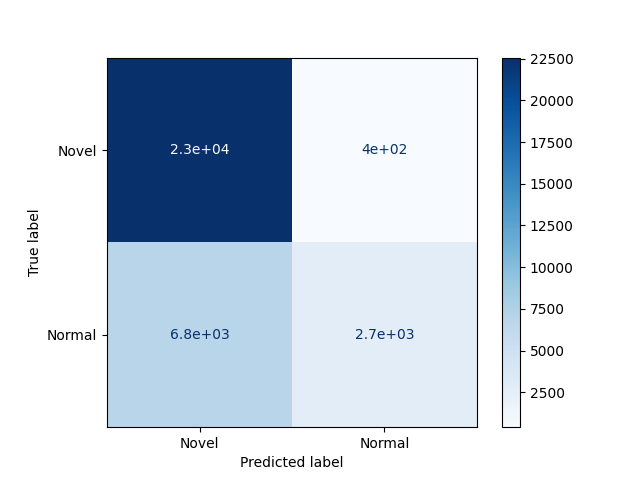
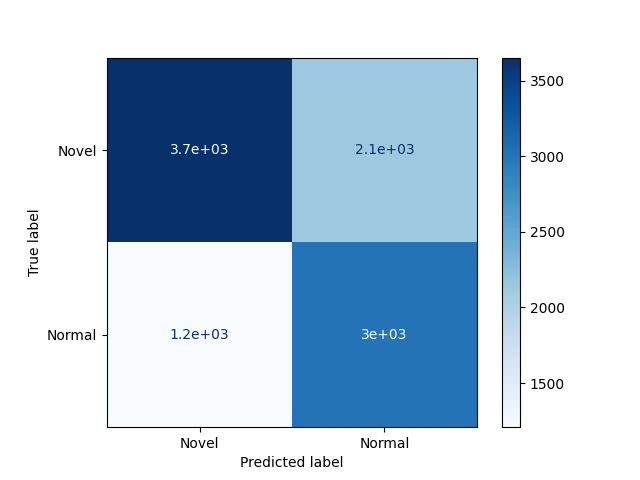
Change Confusion Matrix to Test Set

diff --git a/polycraft_nov_det/eval.py b/polycraft_nov_det/eval.py
@@ -3,7 +3,7 @@ from pathlib import Path
 import numpy as np
 
 from polycraft_nov_data import data_const as polycraft_const
-from polycraft_nov_data.dataloader import polycraft_dataloaders
+from polycraft_nov_data.dataloader import polycraft_dataloaders, polycraft_dataset
 from polycraft_nov_data.dataset_transforms import folder_name_to_target_list
 
 import polycraft_nov_det.eval_calc as eval_calc
@@ -27,10 +27,12 @@ def eval_polycraft(model_path, image_scale=1, device="cpu"):
     model = model_utils.load_polycraft_model(model_path, device).eval()
     dataloaders = polycraft_dataloaders(image_scale=image_scale, include_novel=True)
     # get targets determined at runtime
-    normal_targets = folder_name_to_target_list(dataloaders[0].dataset,
+    base_dataset = polycraft_dataset()
+    normal_targets = folder_name_to_target_list(base_dataset,
                                                 polycraft_const.NORMAL_CLASSES)
-    novel_targets = folder_name_to_target_list(dataloaders[0].dataset,
+    novel_targets = folder_name_to_target_list(base_dataset,
                                                polycraft_const.NOVEL_CLASSES)
+    del base_dataset
     eval(model_path, model, dataloaders, normal_targets, novel_targets, device)
 
 
@@ -47,11 +49,13 @@ def eval(model_path, model, dataloaders, normal_targets, novel_targets, device="
         valid_loader, detector, thresholds, normal_targets)
     opt_index = eval_calc.optimal_index(t_pos, f_pos, t_neg, f_neg)
     opt_thresh = thresholds[opt_index]
-    # plot ECDF with optimal index
+    # plot ECDF with optimal thresh
     plot.plot_empirical_cdf(train_ecdf, opt_thresh).savefig(eval_path / Path("ecdf.png"))
-    # plot confusion matrix
-    con_matrix = eval_calc.optimal_con_matrix(t_pos, f_pos, t_neg, f_neg)
-    eval_plot.plot_con_matrix(con_matrix).savefig(eval_path / Path("con_matrix.png"))
-    # plot PR and ROC curves
+    # plot PR and ROC curves on validation set
     eval_plot.plot_precision_recall(t_pos, f_pos, f_neg).savefig(eval_path / Path("pr.png"))
     eval_plot.plot_roc(t_pos, f_pos, t_neg, f_neg).savefig(eval_path / Path("roc.png"))
+    # plot confusion matrix on test set
+    t_pos, f_pos, t_neg, f_neg = eval_calc.confusion_stats(
+        test_loader, detector, np.array([opt_thresh]), normal_targets)
+    con_matrix = eval_calc.optimal_con_matrix(t_pos, f_pos, t_neg, f_neg)
+    eval_plot.plot_con_matrix(con_matrix).savefig(eval_path / Path("con_matrix.png"))
